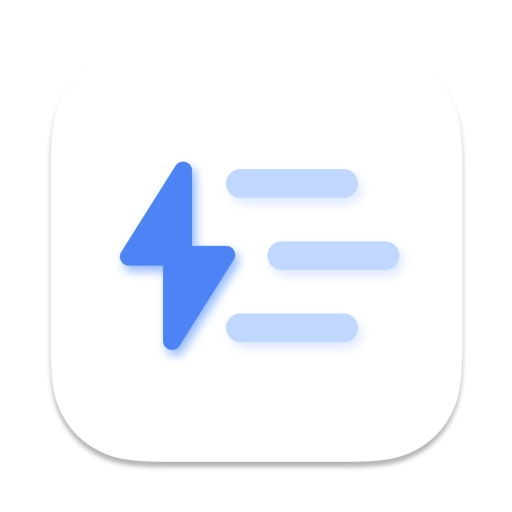
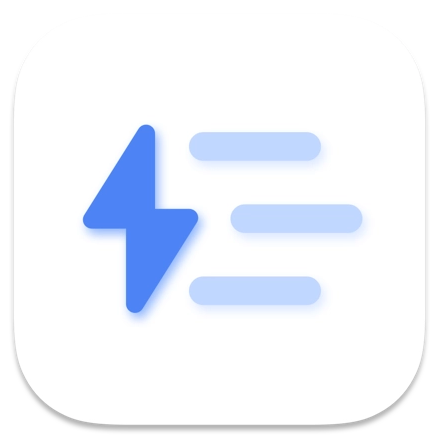
feat(ui): 新增窗口行为设置对话框
将窗口行为设置从侧边栏移至独立的模态对话框，通过标题栏设置按钮打开

diff --git a/src/ui/settings_page.rs b/src/ui/settings_page.rs
@@ -122,12 +122,11 @@ struct SwitchRowConfig {
     checked: bool,
 }
 
-fn switch_row(
+fn switch_row_app(
     config: SwitchRowConfig,
     muted: Hsla,
     foreground: Hsla,
-    cx: &mut Context<MemoryCleanerApp>,
-    on_click: impl Fn(&mut MemoryCleanerApp, &bool, &mut Window, &mut Context<MemoryCleanerApp>) + 'static,
+    on_click: impl Fn(&bool, &mut Window, &mut App) + 'static,
 ) -> impl IntoElement {
     h_flex()
         .w_full()
@@ -171,25 +170,26 @@ fn switch_row(
                 .child(
                     Switch::new(config.id)
                         .checked(config.checked)
-                        .on_click(cx.listener(on_click)),
+                        .on_click(on_click),
                 ),
         )
 }
 
-fn render_window_behavior(
-    app: &MemoryCleanerApp,
-    cx: &mut Context<MemoryCleanerApp>,
+pub fn render_window_behavior_dialog(
+    weak: WeakEntity<MemoryCleanerApp>,
+    cx: &App,
 ) -> impl IntoElement {
-    let settings = &app.settings;
+    let app = weak.upgrade().expect("MemoryCleanerApp entity should exist");
+    let settings = app.read(cx).settings.clone();
     let muted = cx.theme().muted_foreground;
     let foreground = cx.theme().foreground;
 
     v_flex()
         .w_full()
         .gap(px(2.))
-        .child(switch_row(
+        .child(switch_row_app(
             SwitchRowConfig {
-                id: "switch-always-on-top",
+                id: "dialog-switch-always-on-top",
                 icon: IconName::Star,
                 title: "窗口置顶",
                 description: "窗口始终保持在最前面",
@@ -197,14 +197,18 @@ fn render_window_behavior(
             },
             muted,
             foreground,
-            cx,
-            |app, checked, window, cx| {
-                app.set_always_on_top(*checked, window, cx);
+            {
+                let weak = weak.clone();
+                move |checked, window, cx| {
+                    let _ = weak.update(cx, |app, cx| {
+                        app.set_always_on_top(*checked, window, cx);
+                    });
+                }
             },
         ))
-        .child(switch_row(
+        .child(switch_row_app(
             SwitchRowConfig {
-                id: "switch-close-to-tray",
+                id: "dialog-switch-close-to-tray",
                 icon: IconName::Minimize,
                 title: "关闭时隐藏到托盘",
                 description: "点击关闭按钮时最小化到系统托盘",
@@ -212,14 +216,18 @@ fn render_window_behavior(
             },
             muted,
             foreground,
-            cx,
-            |app, checked, _, cx| {
-                app.set_close_to_tray(*checked, cx);
+            {
+                let weak = weak.clone();
+                move |checked, _window, cx| {
+                    let _ = weak.update(cx, |app, cx| {
+                        app.set_close_to_tray(*checked, cx);
+                    });
+                }
             },
         ))
-        .child(switch_row(
+        .child(switch_row_app(
             SwitchRowConfig {
-                id: "switch-start-minimized",
+                id: "dialog-switch-start-minimized",
                 icon: IconName::Settings,
                 title: "启动时最小化",
                 description: "启动后直接进入托盘，不显示主窗口",
@@ -227,9 +235,13 @@ fn render_window_behavior(
             },
             muted,
             foreground,
-            cx,
-            |app, checked, _, cx| {
-                app.set_start_minimized(*checked, cx);
+            {
+                let weak = weak.clone();
+                move |checked, _window, cx| {
+                    let _ = weak.update(cx, |app, cx| {
+                        app.set_start_minimized(*checked, cx);
+                    });
+                }
             },
         ))
 }
@@ -360,29 +372,17 @@ fn render_settings_details(
     div()
         .id("settings-details-panel")
         .w_full()
-        .flex_1()
-        .min_h_0()
+        .flex_shrink_0()
         .rounded(radius)
         .border_1()
         .border_color(border)
-        .overflow_hidden()
         .child(
-            div()
-                .id("settings-details-scroll")
+            v_flex()
                 .w_full()
-                .h_full()
-                .overflow_y_scroll()
-                .child(
-                    v_flex()
-                        .w_full()
-                        .p(px(CONTENT_PADDING))
-                        .gap(px(SECTION_GAP))
-                        .child(panel_section_title(IconName::Settings2, "窗口行为"))
-                        .child(render_window_behavior(app, cx))
-                        .child(div().w_full().h(px(1.)).bg(border))
-                        .child(panel_section_title(IconName::Settings, "清理区域"))
-                        .child(render_cleanup_areas(app, muted, cx)),
-                ),
+                .p(px(CONTENT_PADDING))
+                .gap(px(SECTION_GAP))
+                .child(panel_section_title(IconName::Settings, "清理区域"))
+                .child(render_cleanup_areas(app, muted, cx)),
         )
 }
 
@@ -399,7 +399,8 @@ pub fn render_settings_bottom(
         .id("settings-bottom-column")
         .w_full()
         .flex_1()
-        .min_h_0();
+        .min_h_0()
+        .gap(px(SECTION_GAP));
 
     if app.settings_expanded {
         column = column.child(render_settings_details(app, border, radius, muted, cx));

diff --git a/src/ui/title_bar.rs b/src/ui/title_bar.rs
@@ -91,7 +91,7 @@ fn title_bar_action_control(
         .child(Icon::new(icon).small())
 }
 
-fn settings_toggle_control(
+fn expand_toggle_control(
     app: &MemoryCleanerApp,
     foreground: Hsla,
     hover_fg: Hsla,
@@ -106,7 +106,7 @@ fn settings_toggle_control(
     };
 
     title_bar_action_control(
-        "titlebar-settings-toggle",
+        "titlebar-expand-toggle",
         icon,
         foreground,
         hover_fg,
@@ -114,6 +114,25 @@ fn settings_toggle_control(
         active_bg,
         app_cx,
         |app, window, cx| app.toggle_settings_expanded(window, cx),
+    )
+}
+
+fn window_settings_control(
+    foreground: Hsla,
+    hover_fg: Hsla,
+    hover_bg: Hsla,
+    active_bg: Hsla,
+    app_cx: &mut Context<MemoryCleanerApp>,
+) -> impl IntoElement {
+    title_bar_action_control(
+        "titlebar-window-settings",
+        IconName::Settings2,
+        foreground,
+        hover_fg,
+        hover_bg,
+        active_bg,
+        app_cx,
+        |app, window, cx| app.open_window_behavior_dialog(window, cx),
     )
 }
 
@@ -216,7 +235,14 @@ pub fn render_title_bar(
                             .items_center()
                             .flex_shrink_0()
                             .h_full()
-                            .child(settings_toggle_control(
+                            .child(window_settings_control(
+                                foreground,
+                                hover_fg,
+                                hover_bg,
+                                active_bg,
+                                cx,
+                            ))
+                            .child(expand_toggle_control(
                                 app,
                                 foreground,
                                 hover_fg,

diff --git a/src/app.rs b/src/app.rs
@@ -2,7 +2,9 @@ use std::time::Duration;
 
 use anyhow::Result;
 use gpui::*;
+use gpui_component::v_flex;
 use gpui_component::ActiveTheme;
+use gpui_component::WindowExt;
 use smol::Timer;
 
 use crate::memory::{MemorySection, MemoryStatus};
@@ -319,6 +321,30 @@ impl MemoryCleanerApp {
         self.settings.memory_areas = areas.bits();
         self.queue_settings_save(cx);
         cx.notify();
+    }
+
+    pub fn open_window_behavior_dialog(&mut self, window: &mut Window, cx: &mut Context<Self>) {
+        use crate::ui::settings_page::render_window_behavior_dialog;
+
+        let weak = cx.weak_entity();
+        window.open_dialog(cx, move |dialog, _window, _cx| {
+            let weak = weak.clone();
+            dialog
+                .title("窗口行为")
+                .w(px(400.))
+                .overlay_closable(true)
+                .content({
+                    let weak = weak.clone();
+                    move |content, _window, cx| {
+                        content.child(
+                            v_flex()
+                                .w_full()
+                                .p(px(CONTENT_PADDING))
+                                .child(render_window_behavior_dialog(weak.clone(), cx)),
+                        )
+                    }
+                })
+        });
     }
 
     pub fn toggle_settings_expanded(&mut self, window: &mut Window, cx: &mut Context<Self>) {
@@ -699,5 +725,6 @@ impl Render for MemoryCleanerApp {
                         .child(render_settings_bottom(self, cx)),
                 ),
         )
+        .children(gpui_component::Root::render_dialog_layer(window, cx))
     }
 }